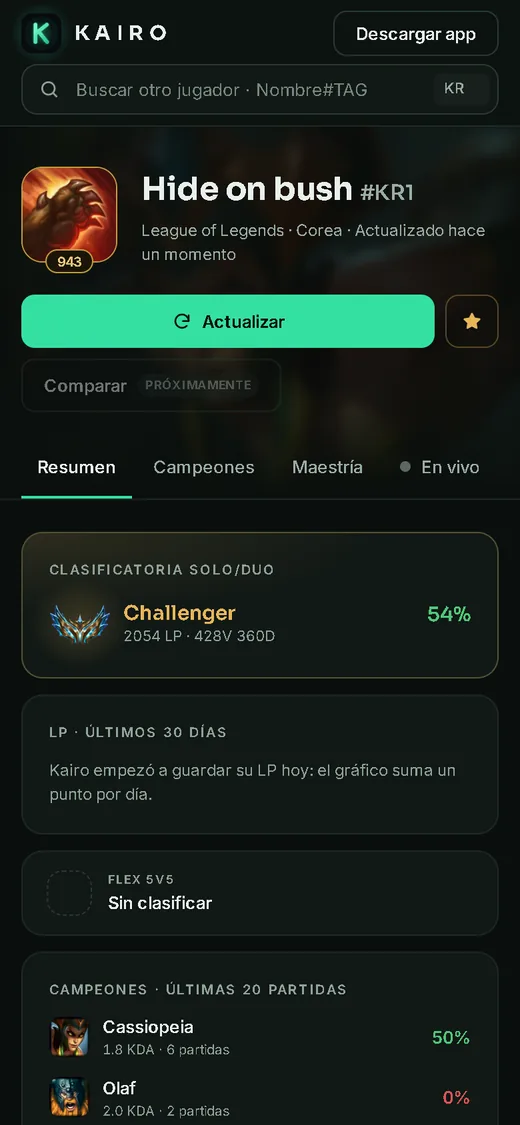
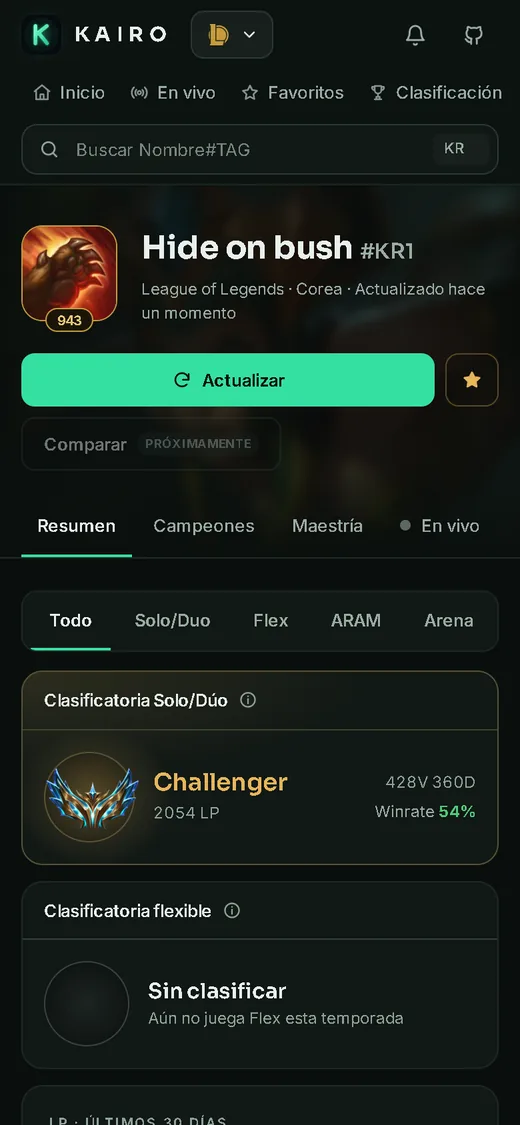
README: header, Favoritos y perfil estilo op.gg, con capturas nuevas

diff --git a/README.md b/README.md
@@ -43,6 +43,11 @@ Busca a cualquier jugador de **League of Legends** y mira su rango, su historial
 
 ## Qué hace
 
+**Header (en todas las páginas)**
+- Logo animado de Kairo y selector de juego con los logos reales de los 9 juegos (LoL disponible; el resto, próximamente).
+- Inicio, En vivo (con un contador de favoritos en partida), Favoritos, Clasificación y App.
+- Buscador compacto, una campanita con los favoritos que están jugando ahora y el enlace a GitHub.
+
 **Inicio**
 - Buscador grande con región (LAN, LAS, NA, EUW, KR, BR) y `Nombre#TAG`. Autocompleta con tus favoritos y búsquedas recientes, con ícono, Riot ID y rango, y se maneja con el teclado (flechas, Enter, Esc).
 - *Tus favoritos en partida*: qué favoritos están jugando ahora, con campeón, cola y cronómetro. Se revisa cada minuto.
@@ -50,9 +55,15 @@ Busca a cualquier jugador de **League of Legends** y mira su rango, su historial
 
 **Perfil** · `/lol/:region/:Nombre-TAG`
 - Cabecera con ícono, nivel y el splash del campeón más jugado de fondo. Botones Actualizar y Favorito.
-- Rango Solo/Duo y Flex con el color y el emblema de su liga, gráfico de LP de 30 días y campeones de las partidas cargadas.
-- Historial: resumen de las últimas partidas, filtros por cola y filas con resultado, campeón, hechizos, runas, K/D/A, KDA, CS por minuto, participación, objetos y tiempo. El detalle muestra los 10 jugadores. Botón "Cargar más".
+- Pestañas de cola al estilo op.gg: Todo, Solo/Duo, Flex, ARAM (incluye ARAM: Caos) y Arena.
+- Tarjetas de rango Solo/Dúo y flexible con el emblema y el color de la liga, victorias, derrotas, winrate y el *mejor nivel* de los últimos 30 días cuando supera al actual.
+- **Partidas recientes**: dona de winrate, K/D/A medio, KDA, participación en kills, los 3 campeones más jugados con su récord y el rol preferido. Tiene búsqueda por campeón.
+- Gráfico de LP de 30 días y campeones de las partidas cargadas.
+- Historial con resultado, campeón, hechizos, runas, K/D/A, KDA, CS por minuto, participación, objetos y tiempo. El detalle muestra los 10 jugadores. Botón "Cargar más".
 - Pestañas Campeones (tabla completa) y Maestría (top 10).
+
+**Favoritos** · `/favoritos`
+- Tus favoritos con ícono, región y rango; quién está jugando ahora (campeón, cola y cronómetro), acceso a su partida y botón para quitarlo.
 
 **En vivo** · `/lol/:region/:Nombre-TAG/en-vivo`
 - Cola, mapa y un cronómetro que avanza. Bloqueos de ambos equipos.
@@ -62,7 +73,7 @@ Busca a cualquier jugador de **League of Legends** y mira su rango, su historial
 **En todas las páginas**
 - Los enlaces se comparten y cargan directo. Hay skeletons mientras carga y mensajes claros para "jugador no encontrado", el límite de la API y "Despertando el servidor…" cuando Render está dormido.
 - Funciona en celular: las columnas se apilan y las tablas hacen scroll dentro de su caja.
-- Animaciones sutiles (entrada escalonada, números que cuentan, logo que respira). Se apagan si el sistema pide `prefers-reduced-motion` y solo usan `transform` y `opacity`.
+- Animaciones sutiles (entrada escalonada, números que cuentan, logo que respira, barras de rol). Se apagan si el sistema pide `prefers-reduced-motion` y solo usan `transform` y `opacity`.
 - Imágenes reales de Data Dragon (campeones, objetos, hechizos, runas e íconos) y emblemas oficiales de rango. Sin emojis.
 
 TFT, Brawl Stars, Clash Royale, Clash of Clans, Dota 2, Fortnite, Apex Legends y PUBG aparecen como *Próximamente*: ya están en la [app](https://github.com/0scar07/Kairo).
@@ -92,7 +103,7 @@ Para el backend local: `cd server && npm install && npm start` en el repo de Kai
 | `npm run build` | Build de producción en `dist/` (con `404.html` y `.nojekyll`) |
 | `npm run preview` | Sirve el build en local |
 | `npm run lint` | ESLint (reglas de React Hooks incluidas) |
-| `npm test` | Pruebas con Vitest: Riot ID en la URL, rangos, KDA, partidas, sugerencias |
+| `npm test` | Pruebas con Vitest (29): Riot ID en la URL, rangos, KDA, partidas, filtros de cola, roles y sugerencias |
 | `npm run check` | Lint, pruebas y build: lo mismo que corre la CI |
 
 ## Despliegue
@@ -128,12 +139,14 @@ flowchart LR
 ```
 src/
   api/         client.js (fetch, caché, errores, servidor dormido) · server.js · lol.js (endpoints)
-  lib/         ddragon.js · lol.js (colas, rangos, KDA, compactMatch) · regions.js · library.js
+  lib/         ddragon.js · lol.js (colas, rangos, KDA, roles, compactMatch) · regions.js · library.js
+               liveFavorites.js (favoritos en partida, compartido por header y portada) · gameLogos.js
                storage.js · hooks.js · games.js · config.js · *.test.js
-  components/  Layout (header, footer, aviso del servidor) · SearchForm (autocompletado) · CountUp · Icon · ui
-  pages/       Home · Profile (+ profile/) · Live · Misc (próximamente, 404)
+  components/  Layout (header, selector de juego, campanita, footer) · SearchForm (autocompletado) · GameLogo
+               CountUp · Icon · ui
+  pages/       Home · Profile (+ profile/: RecentCard, Sidebar, MatchRow) · Live · Favorites · Misc
   styles/      tokens · global · components · home · profile · live
-public/        logo, favicon, ranks/ (emblemas oficiales) y _redirects
+public/        logo, favicon, ranks/ (emblemas oficiales), games/ (logos de Supercell y Apex) y _redirects
 docs/          capturas del README
 ```
 
@@ -165,6 +178,7 @@ Cuando el backend los agregue, la web los empieza a usar sola, sin otro desplieg
 - [ ] Clasificación Challenger real (endpoint `/lol/leaderboard`)
 - [ ] Filtros de cola en el servidor (`?queue=` en `/lol/matches`)
 - [ ] Comparar dos jugadores (ya existe en la app)
+- [ ] Rango de temporadas pasadas (la API de Riot no lo ofrece: habría que guardarlo en el backend)
 - [ ] TFT y los demás juegos de Kairo
 - [ ] Más idiomas (la app tiene 5)
 
